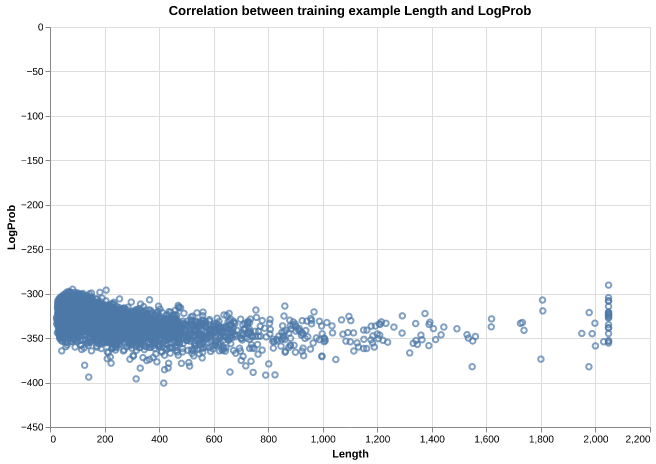
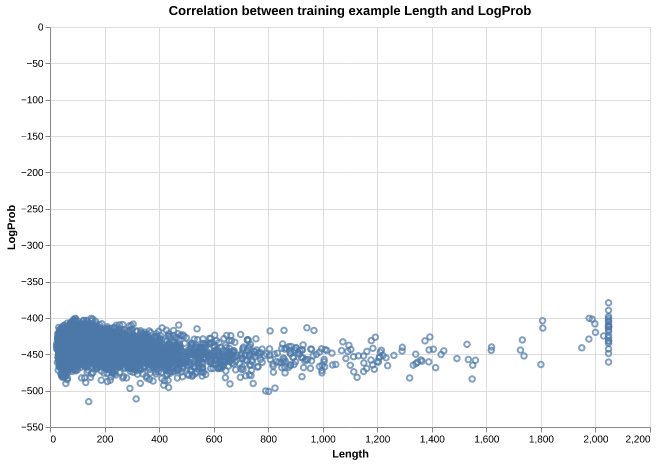
try a different example

diff --git a/analyze_logprobs.py b/analyze_logprobs.py
@@ -60,7 +60,7 @@ def main():
     # pattern = "mean-logprobs-valid*.pt"
     logprobs, val_idxs = get_logprobs(pattern)
 
-    df = pd.DataFrame({"Length": train_lengths, "LogProb": logprobs[0]})
+    df = pd.DataFrame({"Length": train_lengths, "LogProb": logprobs[10]})
     chart = (
         alt.Chart(df.sample(n=5000, random_state=1234))
         .mark_point()
